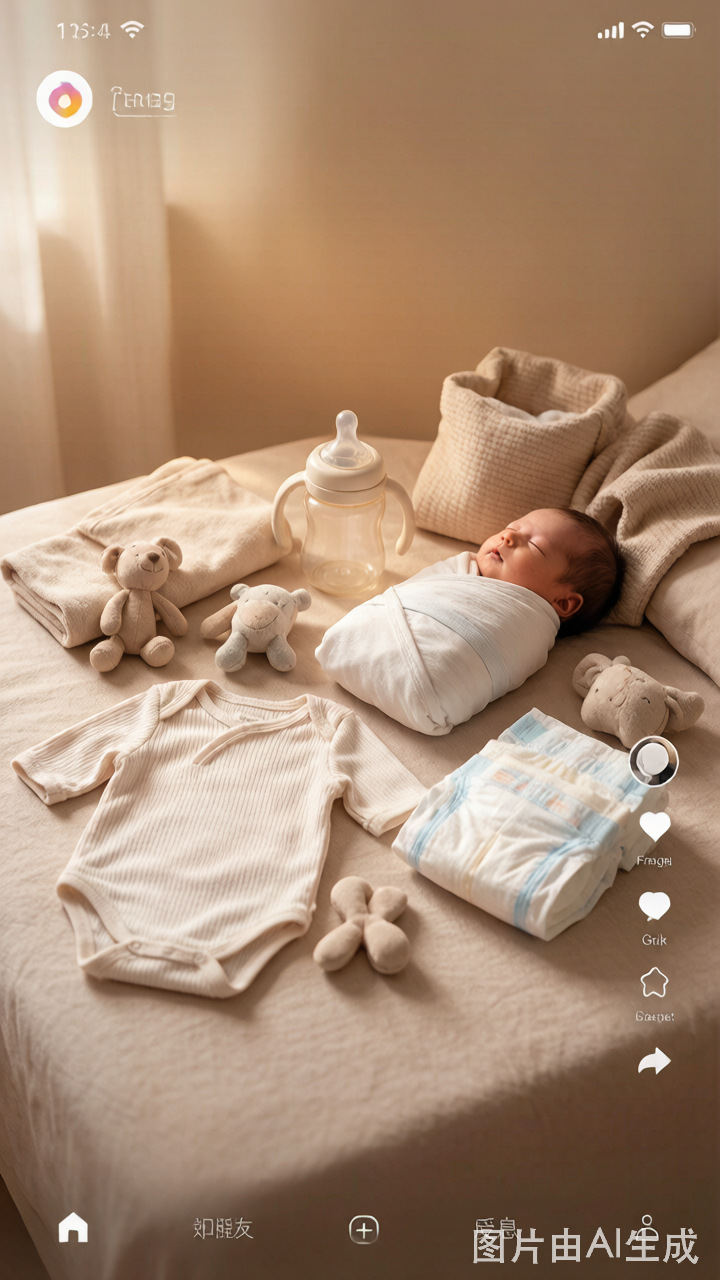
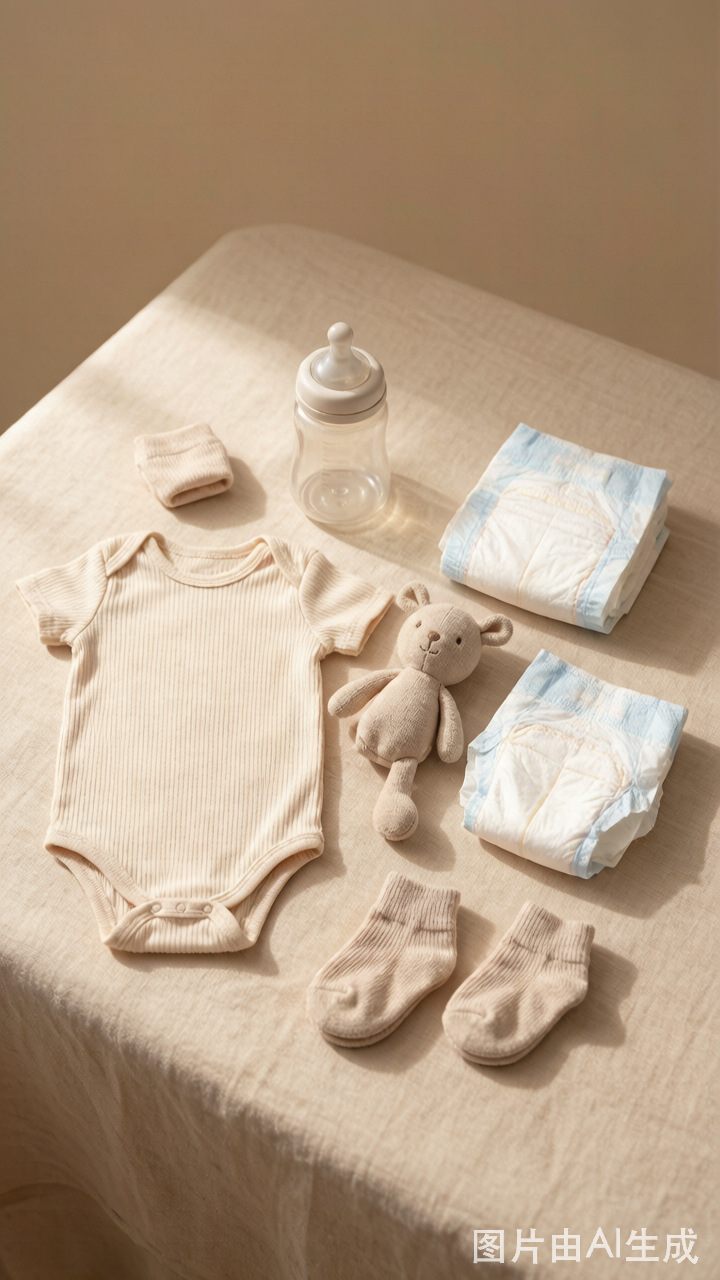
fix: 用CSS UI覆盖层解决AI生成抖音UI乱码与水印，母婴重生成纯好物商品图，保持其他8张主体不变

diff --git a/index.html b/index.html
@@ -578,15 +578,186 @@
           <div class="case-scroller">
             <button class="case-arrow case-arrow--prev" type="button" aria-label="上一组案例">‹</button>
             <div class="case-grid">
-            <figure class="case-item"><img src="images/cases/case-pet.jpg" alt="宠物赛道短视频案例" loading="lazy" decoding="async"><figcaption>宠物</figcaption></figure>
-            <figure class="case-item"><img src="images/cases/case-talk.jpg" alt="口播赛道短视频案例" loading="lazy" decoding="async"><figcaption>口播</figcaption></figure>
-            <figure class="case-item"><img src="images/cases/case-drama.jpg" alt="漫剧赛道短视频案例" loading="lazy" decoding="async"><figcaption>漫剧</figcaption></figure>
-            <figure class="case-item"><img src="images/cases/case-digital.jpg" alt="数字人直播带货短视频案例" loading="lazy" decoding="async"><figcaption>数字人直播带货</figcaption></figure>
-            <figure class="case-item"><img src="images/cases/case-business.jpg" alt="商业博主短视频案例" loading="lazy" decoding="async"><figcaption>商业博主</figcaption></figure>
-            <figure class="case-item"><img src="images/cases/case-graphic.jpg" alt="图文带货案例" loading="lazy" decoding="async"><figcaption>图文</figcaption></figure>
-            <figure class="case-item"><img src="images/cases/case-food.jpg" alt="美食赛道短视频案例" loading="lazy" decoding="async"><figcaption>美食</figcaption></figure>
-            <figure class="case-item"><img src="images/cases/case-rural.jpg" alt="三农赛道短视频案例" loading="lazy" decoding="async"><figcaption>三农</figcaption></figure>
-            <figure class="case-item"><img src="images/cases/case-baby.jpg" alt="新生儿好物分享案例" loading="lazy" decoding="async"><figcaption>新生儿好物分享</figcaption></figure>
+            <figure class="case-item"><div class="phone-screen"><img src="images/cases/case-pet.jpg" alt="宠物赛道短视频案例" loading="lazy" decoding="async"><div class="screen-ui">
+            <div class="ui-statusbar">
+              <span class="ui-back">‹</span>
+              <span class="ui-time">9:41</span>
+              <span class="ui-signal">📶 🔋</span>
+            </div>
+            <div class="ui-sidebar">
+              <div class="ui-avatar"></div>
+              <div class="ui-btn"><span class="ui-heart">♥</span></div>
+              <div class="ui-btn"><span class="ui-comment">💬</span></div>
+              <div class="ui-btn"><span class="ui-star">★</span></div>
+              <div class="ui-btn"><span class="ui-share">↗</span></div>
+            </div>
+            <div class="ui-bottom">
+              <div class="ui-commentbar">说点什么…</div>
+              <div class="ui-navbar">
+                <span>首页</span><span>朋友</span><span class="ui-plus">+</span><span>消息</span><span>我</span>
+              </div>
+            </div>
+          </div></div><figcaption>宠物</figcaption></figure>
+            <figure class="case-item"><div class="phone-screen"><img src="images/cases/case-talk.jpg" alt="口播赛道短视频案例" loading="lazy" decoding="async"><div class="screen-ui">
+            <div class="ui-statusbar">
+              <span class="ui-back">‹</span>
+              <span class="ui-time">9:41</span>
+              <span class="ui-signal">📶 🔋</span>
+            </div>
+            <div class="ui-sidebar">
+              <div class="ui-avatar"></div>
+              <div class="ui-btn"><span class="ui-heart">♥</span></div>
+              <div class="ui-btn"><span class="ui-comment">💬</span></div>
+              <div class="ui-btn"><span class="ui-star">★</span></div>
+              <div class="ui-btn"><span class="ui-share">↗</span></div>
+            </div>
+            <div class="ui-bottom">
+              <div class="ui-commentbar">说点什么…</div>
+              <div class="ui-navbar">
+                <span>首页</span><span>朋友</span><span class="ui-plus">+</span><span>消息</span><span>我</span>
+              </div>
+            </div>
+          </div></div><figcaption>口播</figcaption></figure>
+            <figure class="case-item"><div class="phone-screen"><img src="images/cases/case-drama.jpg" alt="漫剧赛道短视频案例" loading="lazy" decoding="async"><div class="screen-ui">
+            <div class="ui-statusbar">
+              <span class="ui-back">‹</span>
+              <span class="ui-time">9:41</span>
+              <span class="ui-signal">📶 🔋</span>
+            </div>
+            <div class="ui-sidebar">
+              <div class="ui-avatar"></div>
+              <div class="ui-btn"><span class="ui-heart">♥</span></div>
+              <div class="ui-btn"><span class="ui-comment">💬</span></div>
+              <div class="ui-btn"><span class="ui-star">★</span></div>
+              <div class="ui-btn"><span class="ui-share">↗</span></div>
+            </div>
+            <div class="ui-bottom">
+              <div class="ui-commentbar">说点什么…</div>
+              <div class="ui-navbar">
+                <span>首页</span><span>朋友</span><span class="ui-plus">+</span><span>消息</span><span>我</span>
+              </div>
+            </div>
+          </div></div><figcaption>漫剧</figcaption></figure>
+            <figure class="case-item"><div class="phone-screen"><img src="images/cases/case-digital.jpg" alt="数字人直播带货短视频案例" loading="lazy" decoding="async"><div class="screen-ui">
+            <div class="ui-statusbar">
+              <span class="ui-back">‹</span>
+              <span class="ui-time">9:41</span>
+              <span class="ui-signal">📶 🔋</span>
+            </div>
+            <div class="ui-sidebar">
+              <div class="ui-avatar"></div>
+              <div class="ui-btn"><span class="ui-heart">♥</span></div>
+              <div class="ui-btn"><span class="ui-comment">💬</span></div>
+              <div class="ui-btn"><span class="ui-star">★</span></div>
+              <div class="ui-btn"><span class="ui-share">↗</span></div>
+            </div>
+            <div class="ui-bottom">
+              <div class="ui-commentbar">说点什么…</div>
+              <div class="ui-navbar">
+                <span>首页</span><span>朋友</span><span class="ui-plus">+</span><span>消息</span><span>我</span>
+              </div>
+            </div>
+          </div></div><figcaption>数字人直播带货</figcaption></figure>
+            <figure class="case-item"><div class="phone-screen"><img src="images/cases/case-business.jpg" alt="商业博主短视频案例" loading="lazy" decoding="async"><div class="screen-ui">
+            <div class="ui-statusbar">
+              <span class="ui-back">‹</span>
+              <span class="ui-time">9:41</span>
+              <span class="ui-signal">📶 🔋</span>
+            </div>
+            <div class="ui-sidebar">
+              <div class="ui-avatar"></div>
+              <div class="ui-btn"><span class="ui-heart">♥</span></div>
+              <div class="ui-btn"><span class="ui-comment">💬</span></div>
+              <div class="ui-btn"><span class="ui-star">★</span></div>
+              <div class="ui-btn"><span class="ui-share">↗</span></div>
+            </div>
+            <div class="ui-bottom">
+              <div class="ui-commentbar">说点什么…</div>
+              <div class="ui-navbar">
+                <span>首页</span><span>朋友</span><span class="ui-plus">+</span><span>消息</span><span>我</span>
+              </div>
+            </div>
+          </div></div><figcaption>商业博主</figcaption></figure>
+            <figure class="case-item"><div class="phone-screen"><img src="images/cases/case-graphic.jpg" alt="图文带货案例" loading="lazy" decoding="async"><div class="screen-ui">
+            <div class="ui-statusbar">
+              <span class="ui-back">‹</span>
+              <span class="ui-time">9:41</span>
+              <span class="ui-signal">📶 🔋</span>
+            </div>
+            <div class="ui-sidebar">
+              <div class="ui-avatar"></div>
+              <div class="ui-btn"><span class="ui-heart">♥</span></div>
+              <div class="ui-btn"><span class="ui-comment">💬</span></div>
+              <div class="ui-btn"><span class="ui-star">★</span></div>
+              <div class="ui-btn"><span class="ui-share">↗</span></div>
+            </div>
+            <div class="ui-bottom">
+              <div class="ui-commentbar">说点什么…</div>
+              <div class="ui-navbar">
+                <span>首页</span><span>朋友</span><span class="ui-plus">+</span><span>消息</span><span>我</span>
+              </div>
+            </div>
+          </div></div><figcaption>图文</figcaption></figure>
+            <figure class="case-item"><div class="phone-screen"><img src="images/cases/case-food.jpg" alt="美食赛道短视频案例" loading="lazy" decoding="async"><div class="screen-ui">
+            <div class="ui-statusbar">
+              <span class="ui-back">‹</span>
+              <span class="ui-time">9:41</span>
+              <span class="ui-signal">📶 🔋</span>
+            </div>
+            <div class="ui-sidebar">
+              <div class="ui-avatar"></div>
+              <div class="ui-btn"><span class="ui-heart">♥</span></div>
+              <div class="ui-btn"><span class="ui-comment">💬</span></div>
+              <div class="ui-btn"><span class="ui-star">★</span></div>
+              <div class="ui-btn"><span class="ui-share">↗</span></div>
+            </div>
+            <div class="ui-bottom">
+              <div class="ui-commentbar">说点什么…</div>
+              <div class="ui-navbar">
+                <span>首页</span><span>朋友</span><span class="ui-plus">+</span><span>消息</span><span>我</span>
+              </div>
+            </div>
+          </div></div><figcaption>美食</figcaption></figure>
+            <figure class="case-item"><div class="phone-screen"><img src="images/cases/case-rural.jpg" alt="三农赛道短视频案例" loading="lazy" decoding="async"><div class="screen-ui">
+            <div class="ui-statusbar">
+              <span class="ui-back">‹</span>
+              <span class="ui-time">9:41</span>
+              <span class="ui-signal">📶 🔋</span>
+            </div>
+            <div class="ui-sidebar">
+              <div class="ui-avatar"></div>
+              <div class="ui-btn"><span class="ui-heart">♥</span></div>
+              <div class="ui-btn"><span class="ui-comment">💬</span></div>
+              <div class="ui-btn"><span class="ui-star">★</span></div>
+              <div class="ui-btn"><span class="ui-share">↗</span></div>
+            </div>
+            <div class="ui-bottom">
+              <div class="ui-commentbar">说点什么…</div>
+              <div class="ui-navbar">
+                <span>首页</span><span>朋友</span><span class="ui-plus">+</span><span>消息</span><span>我</span>
+              </div>
+            </div>
+          </div></div><figcaption>三农</figcaption></figure>
+            <figure class="case-item"><div class="phone-screen"><img src="images/cases/case-baby.jpg" alt="新生儿好物分享案例" loading="lazy" decoding="async"><div class="screen-ui">
+            <div class="ui-statusbar">
+              <span class="ui-back">‹</span>
+              <span class="ui-time">9:41</span>
+              <span class="ui-signal">📶 🔋</span>
+            </div>
+            <div class="ui-sidebar">
+              <div class="ui-avatar"></div>
+              <div class="ui-btn"><span class="ui-heart">♥</span></div>
+              <div class="ui-btn"><span class="ui-comment">💬</span></div>
+              <div class="ui-btn"><span class="ui-star">★</span></div>
+              <div class="ui-btn"><span class="ui-share">↗</span></div>
+            </div>
+            <div class="ui-bottom">
+              <div class="ui-commentbar">说点什么…</div>
+              <div class="ui-navbar">
+                <span>首页</span><span>朋友</span><span class="ui-plus">+</span><span>消息</span><span>我</span>
+              </div>
+            </div>
+          </div></div><figcaption>新生儿好物分享</figcaption></figure>
             </div>
             <button class="case-arrow case-arrow--next" type="button" aria-label="下一组案例">›</button>
           </div>

diff --git a/styles.css b/styles.css
@@ -587,17 +587,116 @@ mark { background: transparent; color: var(--green-text); font-weight: 900; }
   display: flex;
   flex-direction: column;
 }
-.case-item img {
+.phone-screen {
+  position: relative;
   width: 100%;
-  display: block;
-  border-radius: 16px;
+  aspect-ratio: 9 / 16;
+  border-radius: 26px;
+  overflow: hidden;
   background: #000;
-  box-shadow: 0 14px 34px rgba(0,0,0,0.45);
+  box-shadow: 0 18px 46px rgba(0,0,0,0.55);
   transition: transform 0.3s ease, box-shadow 0.3s ease;
 }
-.case-item:hover img {
+.phone-screen img {
+  width: 100%;
+  height: 100%;
+  object-fit: cover;
+  display: block;
+}
+.case-item:hover .phone-screen {
   transform: translateY(-6px);
-  box-shadow: 0 22px 48px rgba(40,184,148,0.22);
+  box-shadow: 0 24px 55px rgba(40,184,148,0.22);
+}
+.screen-ui {
+  position: absolute;
+  inset: 0;
+  pointer-events: none;
+  z-index: 2;
+  color: #fff;
+  font-family: -apple-system, BlinkMacSystemFont, "Segoe UI", Roboto, "PingFang SC", "Microsoft YaHei", sans-serif;
+  text-shadow: 0 1px 2px rgba(0,0,0,0.4);
+}
+.ui-statusbar {
+  position: absolute;
+  top: 0; left: 0; right: 0;
+  height: 56px;
+  display: flex;
+  align-items: center;
+  justify-content: space-between;
+  padding: 0 14px 0 10px;
+  font-size: 13px;
+  font-weight: 600;
+  background: linear-gradient(to bottom, rgba(0,0,0,0.72), rgba(0,0,0,0.25));
+}
+.ui-back { font-size: 26px; line-height: 1; opacity: 0.95; }
+.ui-time { position: absolute; left: 50%; transform: translateX(-50%); }
+.ui-signal { font-size: 11px; letter-spacing: 1px; opacity: 0.95; }
+.ui-sidebar {
+  position: absolute;
+  right: 0;
+  bottom: 130px;
+  width: 58px;
+  padding: 12px 0;
+  display: flex;
+  flex-direction: column;
+  align-items: center;
+  gap: 10px;
+  background: linear-gradient(to left, rgba(0,0,0,0.78), rgba(0,0,0,0.38));
+  border-radius: 24px 0 0 24px;
+}
+.ui-avatar {
+  width: 34px; height: 34px;
+  border-radius: 50%;
+  background: rgba(255,255,255,0.18);
+  border: 1px solid rgba(255,255,255,0.35);
+  margin-bottom: 4px;
+}
+.ui-btn {
+  width: 32px; height: 32px;
+  display: flex; align-items: center; justify-content: center;
+  font-size: 20px;
+  opacity: 0.95;
+}
+.ui-bottom {
+  position: absolute;
+  bottom: 0; left: 0; right: 0;
+  padding: 58px 14px 10px;
+  background: linear-gradient(to top, rgba(0,0,0,0.92), rgba(0,0,0,0.45));
+}
+.ui-commentbar {
+  max-width: 68%;
+  background: rgba(255,255,255,0.10);
+  border-radius: 16px;
+  padding: 6px 12px;
+  font-size: 12px;
+  color: rgba(255,255,255,0.85);
+  margin-bottom: 10px;
+  backdrop-filter: blur(2px);
+}
+.ui-navbar {
+  display: flex;
+  justify-content: space-around;
+  align-items: center;
+  font-size: 10px;
+  color: rgba(255,255,255,0.9);
+  padding-top: 8px;
+}
+.ui-plus { font-size: 26px; line-height: 1; font-weight: 300; }
+/* 漫剧：用清晰字幕条盖住原图中间乱码字幕 */
+.case-item:nth-child(3) .screen-ui::after {
+  content: '高能反转 · 爆款短剧';
+  position: absolute;
+  left: 14px;
+  bottom: 132px;
+  color: rgba(255,255,255,0.96);
+  font-size: 13px;
+  font-weight: 500;
+  letter-spacing: 0.02em;
+  text-shadow: 0 1px 3px rgba(0,0,0,0.7);
+  background: linear-gradient(to right, rgba(0,0,0,0.45), rgba(0,0,0,0.1));
+  padding: 5px 12px;
+  border-radius: 6px;
+  pointer-events: none;
 }
 .case-item figcaption {
   text-align: center;
